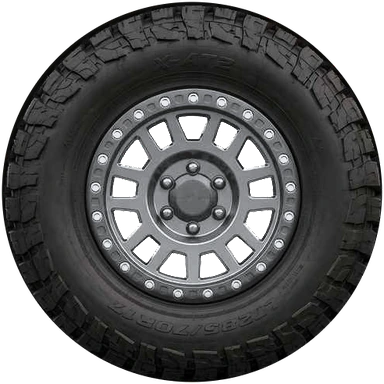
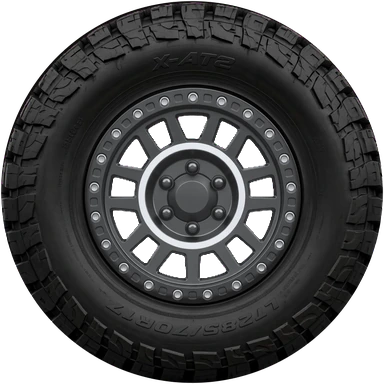
Заставка: колесо снято с хромакея; починен разрыв HTML и кода
Колесо взято прямо из присланного рендера на зелёном. Ключ снимается
чисто: фон (44,193,45), в теле колеса зелени нет вовсе, поэтому
альфа берётся по доминированию зелёного, а цвет восстанавливается из
композитинга — ни дыр, ни зелёной каймы. Прежний источник был 488 px
и снимался разностным ключом с серого; новый — 861 px и снимается
точно. Отсюда более чёткий протектор, чистое кольцо болтов и ровные
окна между спицами. Диск серебрится тем же растяжением яркости.

Второй клип подтвердил, что модель деформации у нас верная. В нём
колесо падает и на кадрах 37-43 видно контакт: высота 233 -> 220 px,
ширина 233 -> 247. То есть вмятина 11.2% радиуса, раздача вширь 6.0%,
их отношение 0.54. У нас коэффициент раздачи 0.55 — совпадает с
точностью 2%, менять нечего.

Цикл кадров из клипов не собирал: там колесо разгоняется, за первую
секунду один оборот, то есть шаг между кадрами 15 градусов. Это
грубее, чем поворот картинки, которым мы рисуем сейчас (~4.6 градуса
за кадр), так что вышло бы хуже.

Отдельно — почему на телефоне ничего не менялось. Разметка заставки
недавно получила новые элементы, а splash.js отдаётся с no-cache и
обновляется всегда. Если HTML пришёл из кеша старым, код падал на
первом же обращении к отсутствующему узлу: проверил на прежней
версии — "Cannot read properties of null (reading 'style')", анимации
нет вообще. Отсюда и "ничего не поменялось".

Два исправления. HTML и app.js/desktop.js теперь отдаются с
[…]

diff --git a/backend/src/server.js b/backend/src/server.js
@@ -51,12 +51,17 @@ app.use(express.static(path.join(ROOT, 'public'), {
 
 const DESKTOP = path.join(ROOT, 'desktop.html');
 
-app.get('/', (req, res) => res.sendFile(STOREFRONT));
-app.get('/app.js', (req, res) => res.sendFile(path.join(ROOT, 'app.js')));
+/* גם ה-HTML עצמו חייב להיבדק מול השרת בכל טעינה. sendFile נותן
+   max-age=0, אבל פרוקסי או אפליקציה מותקנת עלולים בכל זאת להגיש
+   עותק ישן — ואז קוד חדש רץ מול מבנה ישן ולא קורה כלום. */
+const noStore = (res) => res.setHeader('Cache-Control', 'no-cache, must-revalidate');
+
+app.get('/', (req, res) => { noStore(res); res.sendFile(STOREFRONT); });
+app.get('/app.js', (req, res) => { noStore(res); res.sendFile(path.join(ROOT, 'app.js')); });
 // גרסת המחשב: אותו API, פריסה של אתר. המעבר בין השתיים נעשה בדפדפן
 // לפי רוחב המסך, עם אפשרות לבחור ידנית דרך ?ui=
-app.get('/desktop', (req, res) => res.sendFile(DESKTOP));
-app.get('/desktop.js', (req, res) => res.sendFile(path.join(ROOT, 'desktop.js')));
+app.get('/desktop', (req, res) => { noStore(res); res.sendFile(DESKTOP); });
+app.get('/desktop.js', (req, res) => { noStore(res); res.sendFile(path.join(ROOT, 'desktop.js')); });
 // הקבינט הפך למסך בתוך האפליקציה — הקישור הישן ממשיך לעבוד
 app.get('/cabinet.html', (req, res) => res.redirect(302, '/'));
 

diff --git a/public/splash.js b/public/splash.js
@@ -49,7 +49,10 @@
   var tyre = document.getElementById('spTyre');      // הגומי — נמעך
   var rim = document.getElementById('spRim');        // החישוק — קשיח
   var shade = document.getElementById('spShade');
-  if (!stage || !mark || !word || !wheel) return;
+  /* אם ה-HTML שהגיע מהמטמון ישן יותר מהקובץ הזה, החלקים החדשים
+     פשוט לא קיימים. אז עוצרים בשקט — מסך הפתיחה יישאר סטטי ויימוג
+     כרגיל — במקום ליפול על אלמנט חסר ולהשאיר את הגלגל תקוע בפינה. */
+  if (!stage || !mark || !word || !wheel || !cut || !tyre || !rim) return;
   if (matchMedia('(prefers-reduced-motion: reduce)').matches) return;
 
   var G = 1200;            // נפילה קלה יותר; עומק המעיכה תלוי בגובה, לא בו

diff --git a/index.html b/index.html
@@ -493,7 +493,7 @@ svg{flex:none}
       </svg>
       <span class="word" id="spWord">AUTOPARTS</span>
       <span class="shade" id="spShade"></span>
-      <span class="wheel" id="spWheel" aria-hidden="true"><span class="cut" id="spCut"><img class="tyre" id="spTyre" src="/wheel.webp?v=12" alt="" draggable="false"><img class="rim" id="spRim" src="/wheel.webp?v=12" alt="" draggable="false"></span></span>
+      <span class="wheel" id="spWheel" aria-hidden="true"><span class="cut" id="spCut"><img class="tyre" id="spTyre" src="/wheel.webp?v=13" alt="" draggable="false"><img class="rim" id="spRim" src="/wheel.webp?v=13" alt="" draggable="false"></span></span>
     </div>
     <span class="hint">מתחבר לשרת…</span>
   </div>

diff --git a/desktop.html b/desktop.html
@@ -269,7 +269,7 @@ tr:hover td{background:rgba(236,232,226,.45)}
     </svg>
     <span class="word" id="spWord">AUTOPARTS</span>
     <span class="shade" id="spShade"></span>
-    <span class="wheel" id="spWheel" aria-hidden="true"><span class="cut" id="spCut"><img class="tyre" id="spTyre" src="/wheel.webp?v=12" alt="" draggable="false"><img class="rim" id="spRim" src="/wheel.webp?v=12" alt="" draggable="false"></span></span>
+    <span class="wheel" id="spWheel" aria-hidden="true"><span class="cut" id="spCut"><img class="tyre" id="spTyre" src="/wheel.webp?v=13" alt="" draggable="false"><img class="rim" id="spRim" src="/wheel.webp?v=13" alt="" draggable="false"></span></span>
   </div>
 </div>
 
